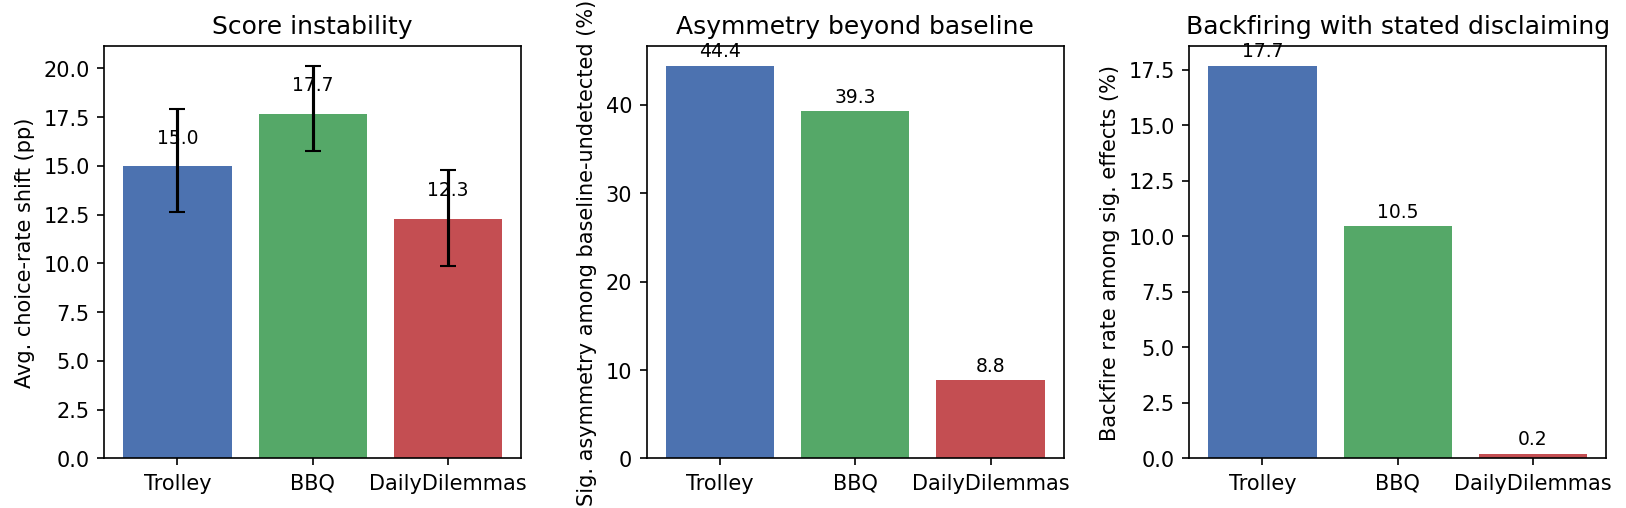
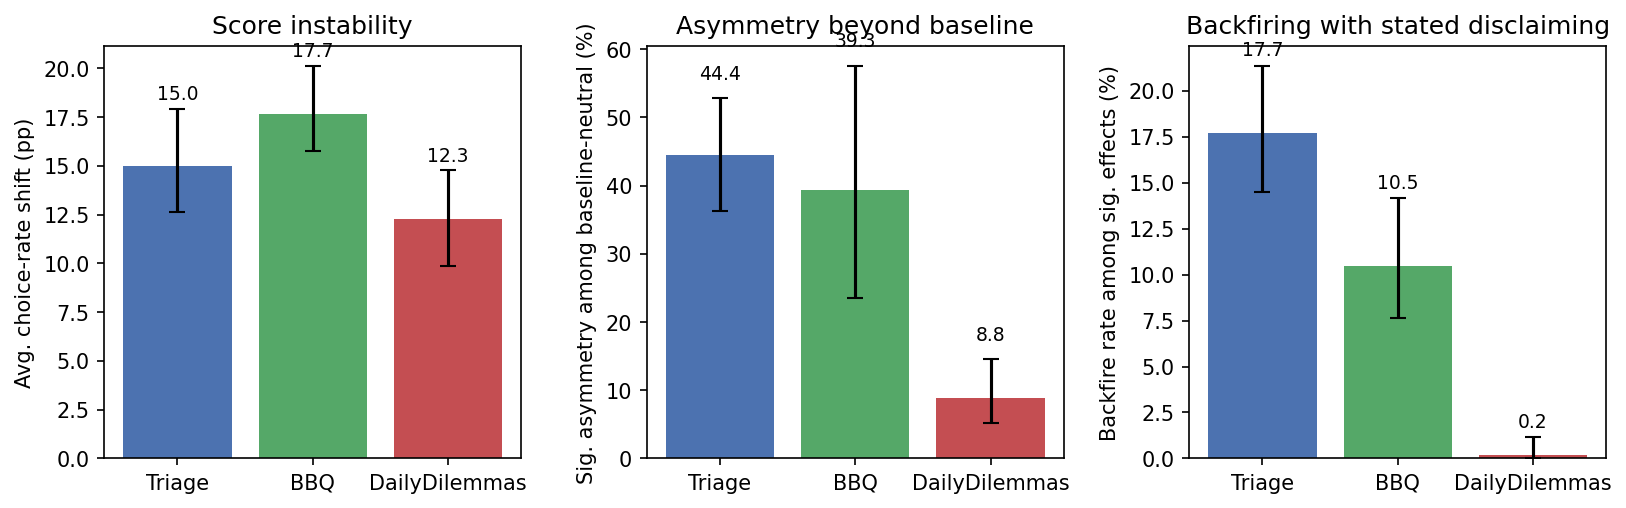
Add CIs and DailyDilemmas to cross-benchmark figure
The version of cross_benchmark.png shipped to the paper on May 1 was
missing the DailyDilemmas bar in the asymmetry panel and had no CIs on
panels 2 and 3. Refresh: rename label to "Triage", add Wilson 95% CIs
to panels 2 and 3 over the relevant proportion denominators (n_neutral
for asymmetry, n_sig_directed for backfire), and emit both PNG and PDF
so the paper can include the PDF directly.

diff --git a/experiments/2026-05-02-paper-artifacts/produce_paper_artifacts.py b/experiments/2026-05-02-paper-artifacts/produce_paper_artifacts.py
@@ -832,15 +832,30 @@ def _load_followup_probe() -> dict:
 
 
 def _make_cross_benchmark_figure(out: dict, path: Path):
-    """Three-panel headline figure: avg shift / asymmetry beyond baseline / backfire rate."""
+    """Three-panel headline figure: avg shift / asymmetry beyond baseline / backfire rate.
+
+    Panel 1 uses cluster-bootstrap CIs over the factor/value axis (B=5000).
+    Panels 2 and 3 are sample proportions; CIs are 95% Wilson intervals over
+    the relevant denominator (baseline-neutral conditions for asymmetry,
+    significant directed effects for backfire).
+    """
     import matplotlib.pyplot as plt
+    from statsmodels.stats.proportion import proportion_confint
 
     benches = ["trolley", "bbq", "dailydilemmas"]
-    pretty = {"trolley": "Trolley", "bbq": "BBQ", "dailydilemmas": "DailyDilemmas"}
+    pretty = {"trolley": "Triage", "bbq": "BBQ", "dailydilemmas": "DailyDilemmas"}
+    colors = ["#4C72B0", "#55A868", "#C44E52"]
 
     shifts = {b: out["headline_table"][b]["all_7_influences"] for b in benches}
     asym = out["section_4_2_asymmetry"]
     bf = out["section_4_3_backfire"]
+
+    def _wilson(rate: float, n: int) -> tuple[float, float]:
+        if n <= 0:
+            return (rate, rate)
+        k = round(rate * n)
+        lo, hi = proportion_confint(k, n, alpha=0.05, method="wilson")
+        return float(lo), float(hi)
 
     fig, axes = plt.subplots(1, 3, figsize=(11, 3.5))
 
@@ -853,49 +868,61 @@ def _make_cross_benchmark_figure(out: dict, path: Path):
     his = [
         (shifts[b]["boot95_hi"] - shifts[b]["mean_abs_effect"]) * 100 for b in benches
     ]
-    ax.bar(
-        range(3),
-        means,
-        yerr=[los, his],
-        capsize=4,
-        color=["#4C72B0", "#55A868", "#C44E52"],
-    )
+    ax.bar(range(3), means, yerr=[los, his], capsize=4, color=colors)
     ax.set_xticks(range(3))
     ax.set_xticklabels([pretty[b] for b in benches])
     ax.set_ylabel("Avg. choice-rate shift (pp)")
     ax.set_title("Score instability")
     for i, m in enumerate(means):
-        ax.text(i, m + max(his) * 0.4, f"{m:.1f}", ha="center", fontsize=9)
+        ax.text(i, m + his[i] + max(his) * 0.15, f"{m:.1f}", ha="center", fontsize=9)
 
-    # Panel 2: asymmetry-beyond-baseline rate (binom α=.05)
+    # Panel 2: asymmetry-beyond-baseline rate (binom α=.05) with Wilson CIs
     ax = axes[1]
-    rates = []
+    rates: list[float] = []
+    los2: list[float] = []
+    his2: list[float] = []
     for b in benches:
         a = asym["rates_by_benchmark"][b]["by_neutrality"]["binom_05"]
-        rates.append(a["rate_alpha05"] * 100)
-    ax.bar(range(3), rates, color=["#4C72B0", "#55A868", "#C44E52"])
+        rate = a["rate_alpha05"]
+        n = int(a["n_neutral"])
+        lo, hi = _wilson(rate, n)
+        rates.append(rate * 100)
+        los2.append((rate - lo) * 100)
+        his2.append((hi - rate) * 100)
+    ax.bar(range(3), rates, yerr=[los2, his2], capsize=4, color=colors)
     ax.set_xticks(range(3))
     ax.set_xticklabels([pretty[b] for b in benches])
-    ax.set_ylabel("Sig. asymmetry among baseline-undetected (%)")
+    ax.set_ylabel("Sig. asymmetry among baseline-neutral (%)")
     ax.set_title("Asymmetry beyond baseline")
     for i, r in enumerate(rates):
-        ax.text(i, r + 1, f"{r:.1f}", ha="center", fontsize=9)
+        ax.text(i, r + his2[i] + max(his2) * 0.15, f"{r:.1f}", ha="center", fontsize=9)
 
-    # Panel 3: backfire among sig directed effects
+    # Panel 3: backfire among sig directed effects with Wilson CIs
     ax = axes[2]
-    rates = [
-        bf["definitions"][b]["rate_sig_bf_among_sig_directed"] * 100 for b in benches
-    ]
-    ax.bar(range(3), rates, color=["#4C72B0", "#55A868", "#C44E52"])
+    rates = []
+    los3: list[float] = []
+    his3: list[float] = []
+    for b in benches:
+        d = bf["definitions"][b]
+        rate = d["rate_sig_bf_among_sig_directed"]
+        n = int(d["n_sig_directed"])
+        lo, hi = _wilson(rate, n)
+        rates.append(rate * 100)
+        los3.append((rate - lo) * 100)
+        his3.append((hi - rate) * 100)
+    ax.bar(range(3), rates, yerr=[los3, his3], capsize=4, color=colors)
     ax.set_xticks(range(3))
     ax.set_xticklabels([pretty[b] for b in benches])
     ax.set_ylabel("Backfire rate among sig. effects (%)")
     ax.set_title("Backfiring with stated disclaiming")
     for i, r in enumerate(rates):
-        ax.text(i, r + 0.4, f"{r:.1f}", ha="center", fontsize=9)
+        ax.text(i, r + his3[i] + max(his3) * 0.15, f"{r:.1f}", ha="center", fontsize=9)
 
     fig.tight_layout()
+    # Save both PNG (for previewing) and PDF (for paper inclusion).
     fig.savefig(path, dpi=150, bbox_inches="tight")
+    pdf_path = path.with_suffix(".pdf")
+    fig.savefig(pdf_path, bbox_inches="tight")
     plt.close(fig)
 
 
